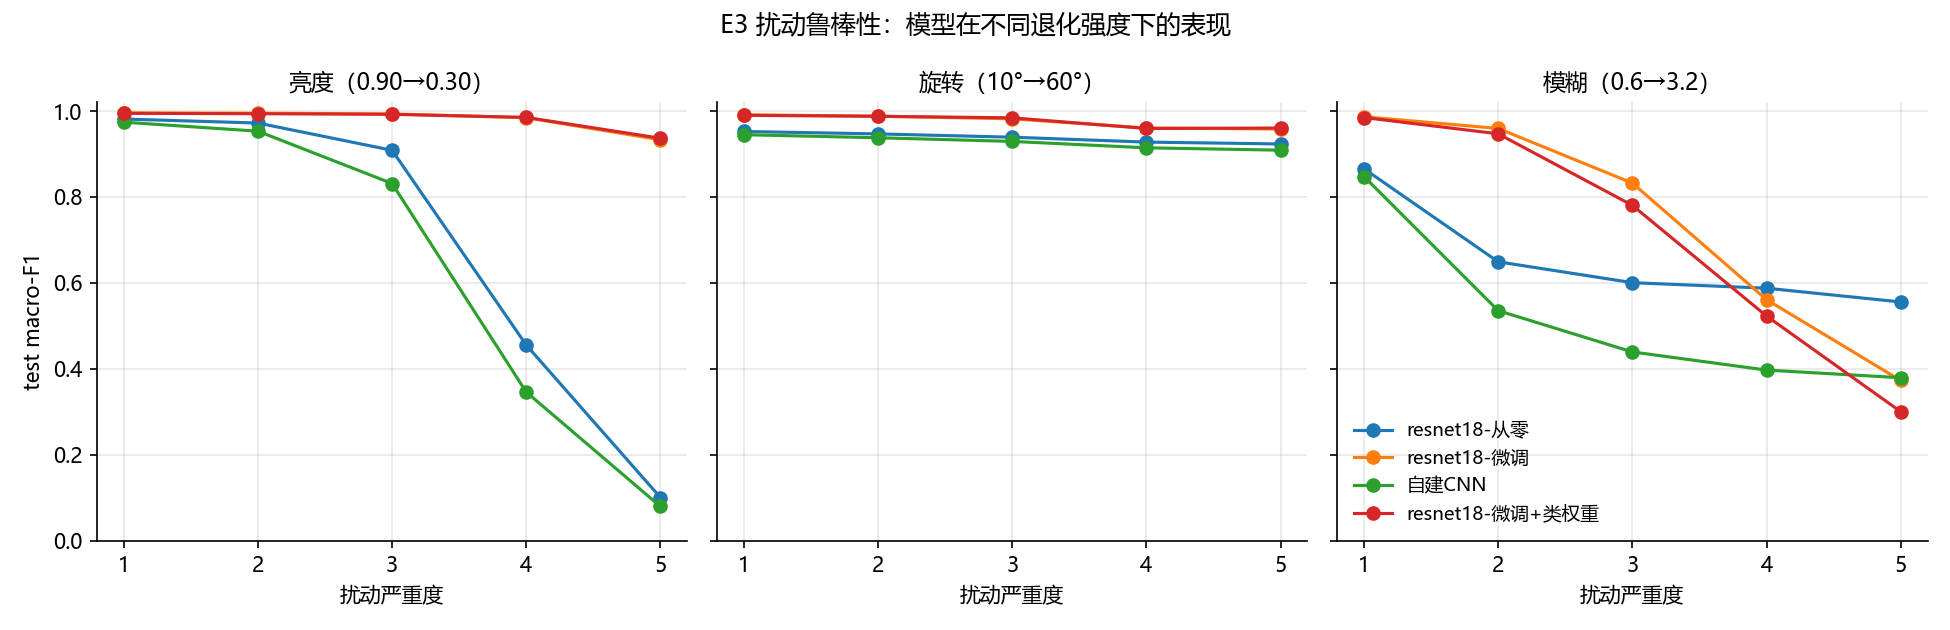
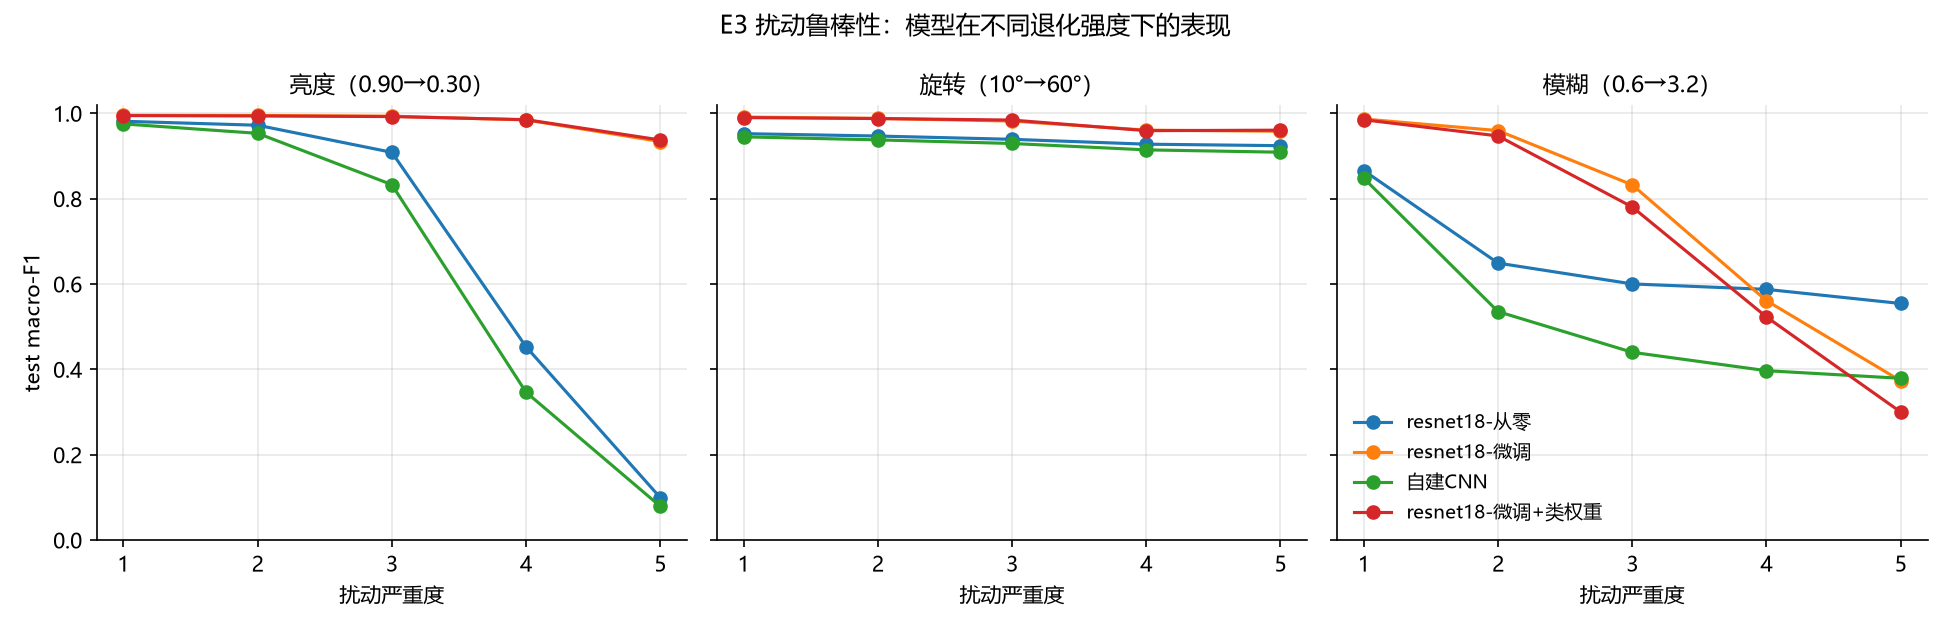
docs: 同步 README 分工表与答辩页 E2 结果

diff --git a/defense/defense.html b/defense/defense.html
@@ -57,7 +57,7 @@
       </div>
       <div class="card card-soft" data-anim="fade-up">
         <h3>02 &nbsp;主结果</h3>
-        <p class="dim">预训练 / 模型规模 / 类别加权的六组对照</p>
+        <p class="dim">预训练 / 模型规模 / 类别加权 / 增强消融的对照</p>
       </div>
       <div class="card card-soft" data-anim="fade-up">
         <h3>03 &nbsp;鲁棒性与可解释性</h3>
@@ -121,11 +121,11 @@
         <tr><td>E1c 自建 CNN</td><td>CNN</td><td>✗</td><td class="num">1.17M</td><td class="num">0.9745</td><td><span class="badge">轻量可用</span></td></tr>
         <tr><td>E1d 类别加权</td><td>ResNet18</td><td>✓</td><td class="num">11.18M</td><td class="num">0.9950</td><td><span class="badge">不均衡已不构成瓶颈</span></td></tr>
         <tr><td>E1e MobileNetV3</td><td>MobileNetV3-S</td><td>✓</td><td class="num">1.52M</td><td class="num">0.9958</td><td><span class="badge good">1/7 参数，精度更高</span></td></tr>
-        <tr class="pending"><td>E2 增强消融</td><td>ResNet18</td><td>✓</td><td class="num">11.18M</td><td class="num">待补</td><td>四组配置已就绪，正在跑</td></tr>
+        <tr><td>E2 增强消融（none / strong）</td><td>ResNet18</td><td>✓</td><td class="num">11.18M</td><td class="num">0.9892 / 0.9913</td><td><span class="badge warn">basic 最优，strong 过增强</span></td></tr>
       </tbody>
     </table>
     <p class="mt-s dim" style="font-size:18px">验证集用于选模型与调参，测试集仅在最终评测时使用；每格为 val / test 中的 test 一行。</p>
-    <div class="notes">讲三句就够：①冻结主干只有 89%，说明特征没适配；②从零训练 98.1%，预训练 99.5%，差 1.5 点；③MobileNet 参数只有 1/7 却持平，说明任务对模型容量不敏感。</div>
+    <div class="notes">讲三句就够：①冻结主干只有 89%，说明特征没适配；②从零训练 98.1%，预训练 99.5%，差 1.5 点；③MobileNet 参数只有 1/7 却持平，说明任务对模型容量不敏感。E2 补一句：basic 最强（0.9953），去掉增强掉到 0.9892，换成 RandAugment 的强增强也只有 0.9913，说明 6544 张的规模撑不住过增强，也扛不住完全不增强。</div>
   </section>
 
   <!-- 6 E4 跨域 -->

diff --git a/README.md b/README.md
@@ -169,7 +169,7 @@ python -m src.train --config configs/base.yaml --set train.epochs=5 model.name=m
 | **A** | 数据与基建 | ✅ `splits`、`dedupe`、`corruptions`、`dataset`、`transforms`、`metrics`、`table`、仓库骨架、`configs/e0_resnet18_ft.yaml` |
 | **B** | 模型与训练 | ✅ `src/models/cnn.py`、`build.py`、`src/train.py`、`src/eval.py` |
 | **C** | MobileNet + 可解释 + Demo | ✅ `mobilenet_v3_small`、Grad-CAM、`app.py`、`report/interpretability.md` |
-| **D** | 实验编排与分析 | ⬜ E2/E3/E4、图表、报告 |
+| **D** | 实验编排与分析 | ✅ E2/E3/E4 结果、`results.md`、引言/方法/结论/参考文献、图表与汇总脚本 |
 
 **B 的 `train.py` 约定**（D 会依赖）：
 
